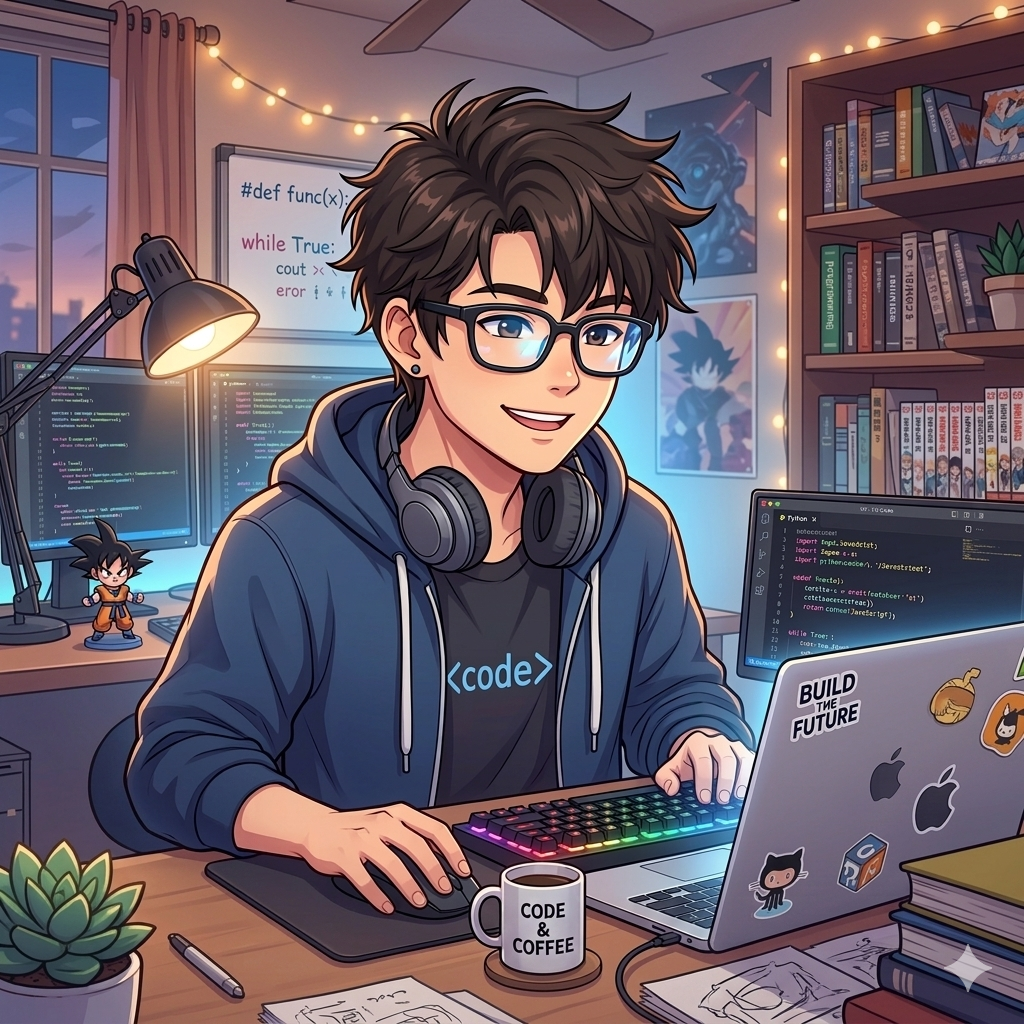
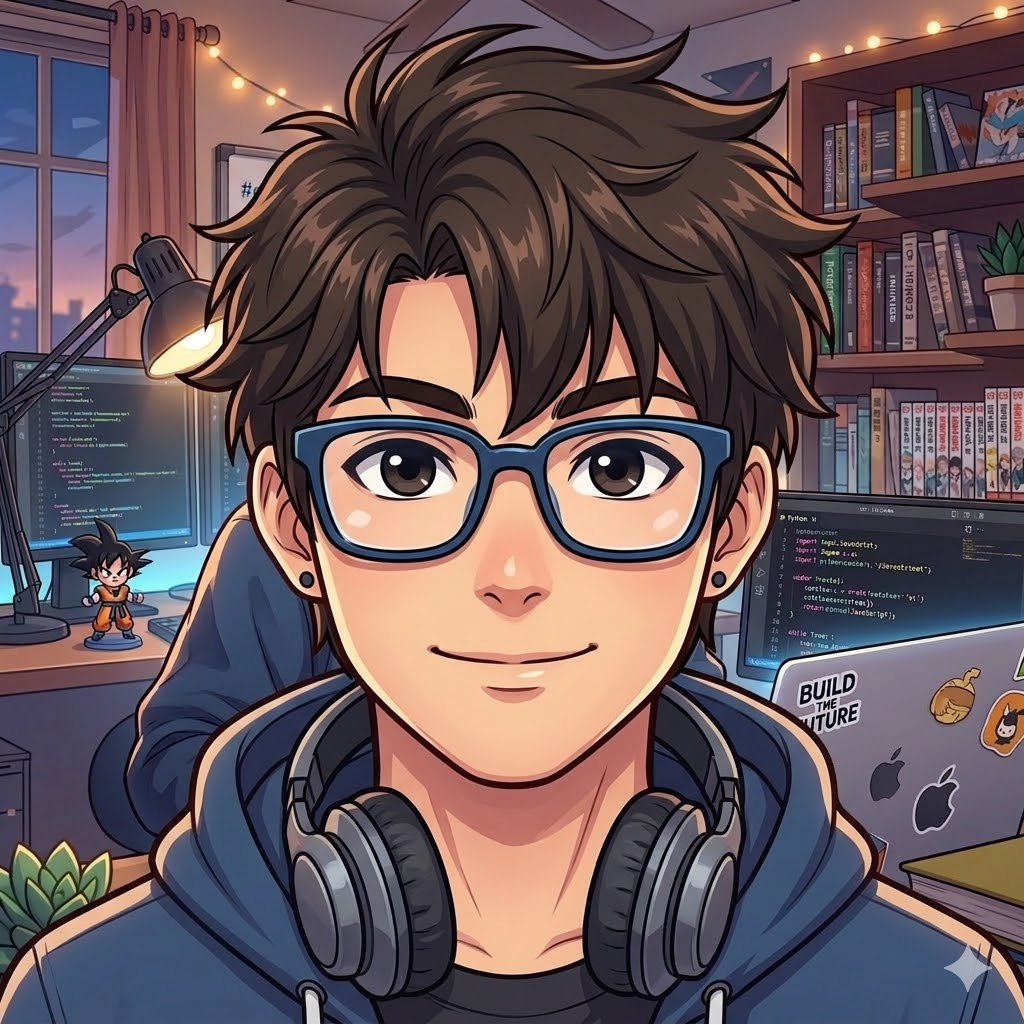
Hero Section

diff --git a/components/pages/Hero.tsx b/components/pages/Hero.tsx
@@ -1,7 +1,28 @@
-import React from 'react'
+import { MapPin } from "lucide-react"
+import { SiReact, SiNextdotjs, SiExpress, SiPython } from "react-icons/si";
+import Badge from "../ui/badge"
 
 export default function Hero() {
   return (
-    <div>Hero</div>
+    <section className='hero text-white mt-4' id='hero'>
+      <div className='flex items-center gap-2 mb-2'>
+        <div>
+           <img src="/images/avatar.png" alt=""  className='h-20 w-20 rounded-[50%]'/>
+         </div>
+      <div>
+        <h1 className="text-xl font-bold ">YUVRAJ SINGH</h1>
+        <h2 className="text-md font-semibold text-blue-400 uppercase tracking-[0.1em]">SOFTWARE DEVELOPER</h2>
+        <p className="flex items-center gap-1 text-xs"><MapPin size={10}/>Lucknow, Uttar Pradesh</p>
+      </div>
+      </div>
+      
+      <p className='text-white/70 text-sm text-center '>Aspiring software developer with a strong foundation in programming and a passion for creating innovative solutions. Currently pursuing a Bachelor's degree in Computer Science, I am eager to apply my knowledge and skills to real-world projects and contribute to the tech industry.</p>
+      <div className="badge mt-2 grid gap-2 grid-cols-[repeat(auto-fit,minmax(160px,1fr))]">
+        <Badge icon={<SiReact size={12} />}>React</Badge>
+        <Badge icon={<SiNextdotjs size={12} />}>Next.js</Badge>
+        <Badge icon={<SiExpress size={12} />}>Express</Badge>
+        <Badge icon={<SiPython size={12} />}>Python</Badge>
+      </div>
+    </section>
   )
 }

diff --git a/components/pages/Navbar.tsx b/components/pages/Navbar.tsx
@@ -3,7 +3,7 @@ import Link from "next/link"
 import { useState } from "react"
 import { Avatar, AvatarFallback, AvatarImage } from "@/components/ui/avatar"
 import { ThemeToggleButton } from "@/components/ui/ThemeToggleButton"
-import { Menu, X, Home, BriefcaseBusiness, Contact2 } from "lucide-react"  
+import { Menu, X, Home, BriefcaseBusiness, Contact2,Code } from "lucide-react"  
 import { motion, AnimatePresence } from "framer-motion"
 import {
   DropdownMenu,
@@ -77,7 +77,7 @@ export default function Navbar() {
       </DropdownMenuTrigger>
 
 
-      <DropdownMenuContent className="w-40" align="end">
+      <DropdownMenuContent className="w-40 bg-gray-900" align="end">
 
         <DropdownMenuGroup>
 
@@ -92,6 +92,12 @@ export default function Navbar() {
             <Link href="/projects" className="flex items-center gap-2">
               <BriefcaseBusiness className="h-8 w-8"/>
               Projects
+            </Link>
+          </DropdownMenuItem>
+          <DropdownMenuItem asChild>
+            <Link href="/coding-stats" className="flex items-center gap-2">
+              <Code className="h-8 w-8"/>
+              Coding Stats
             </Link>
           </DropdownMenuItem>
         </DropdownMenuGroup>

diff --git a/components/ui/badge.tsx b/components/ui/badge.tsx
@@ -1,0 +1,15 @@
+import { ReactNode } from "react";
+
+type BadgeProps = {
+  icon?: ReactNode;
+  children: ReactNode;
+};
+
+export default function Badge({ icon, children }: BadgeProps) {
+  return (
+    <span className="inline-flex items-center gap-1.5 px-6 py-1 rounded-md border border-gray-200 bg-gray-100 text-xs font-medium text-gray-700 w-fit">
+      {icon && <span className="text-sm">{icon}</span>}
+      {children}
+    </span>
+  );
+}

diff --git a/app/page.tsx b/app/page.tsx
@@ -1,11 +1,12 @@
 import Navbar from "@/components/pages/Navbar"
 import Qoute from "@/components/pages/Qoute"
-
+import Hero from "@/components/pages/Hero"
 export default function page() {
   return (
     <div className="bg-black h-screen lg:px-90">
       <Navbar/>
       <div className="p-3">
+         <Hero/>
         <Qoute/>
       </div>
     </div>
